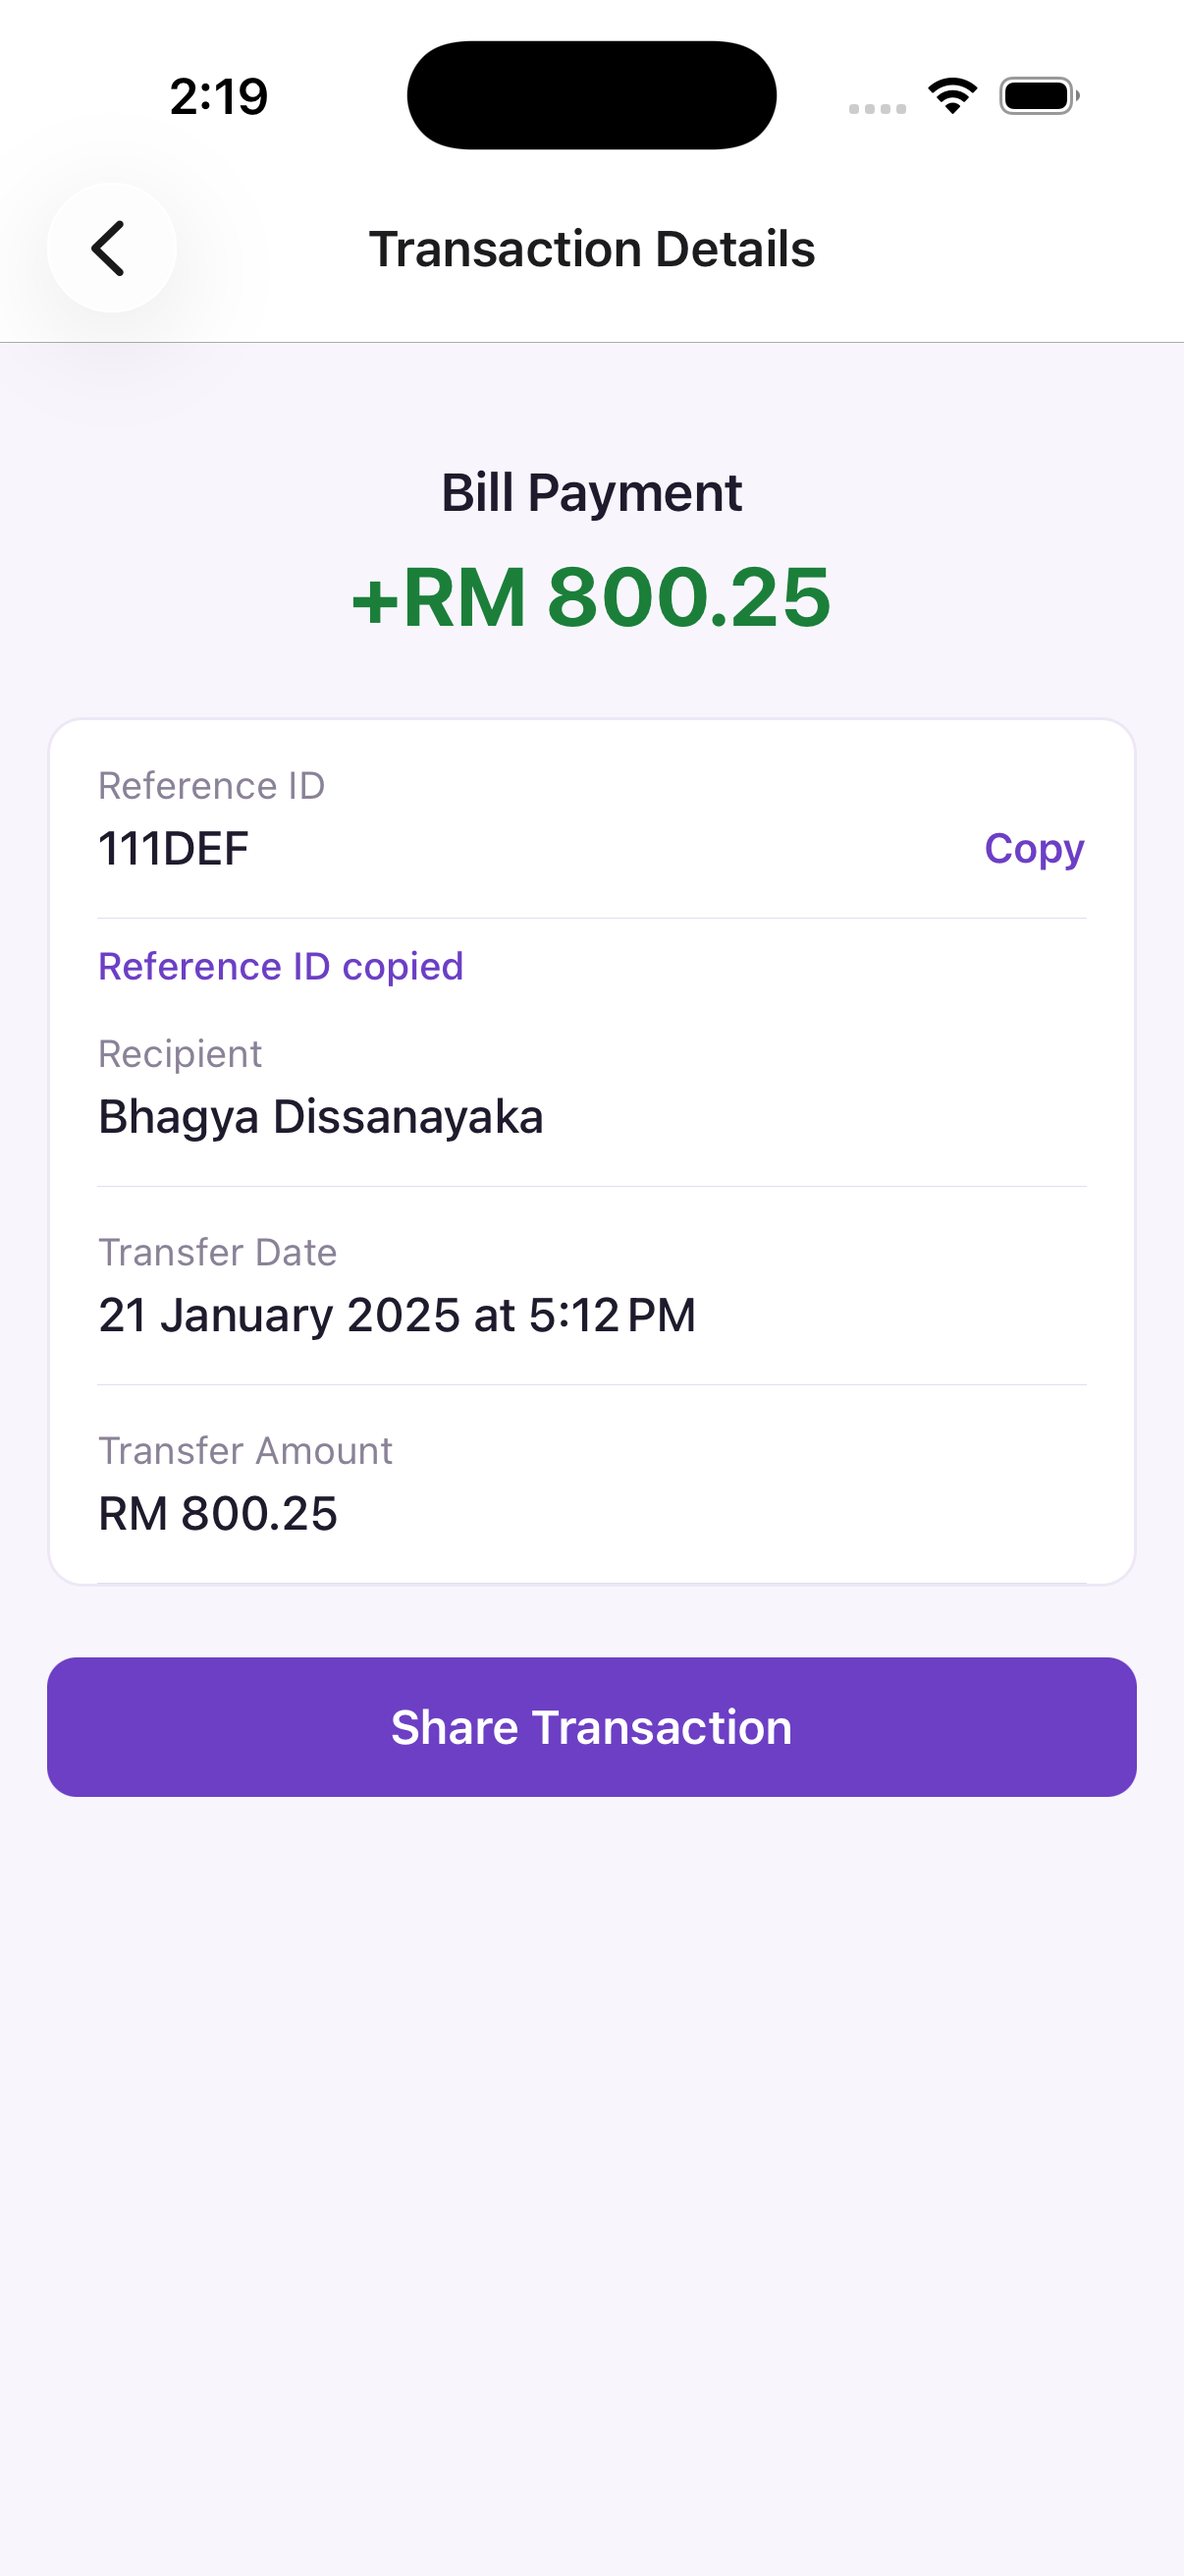
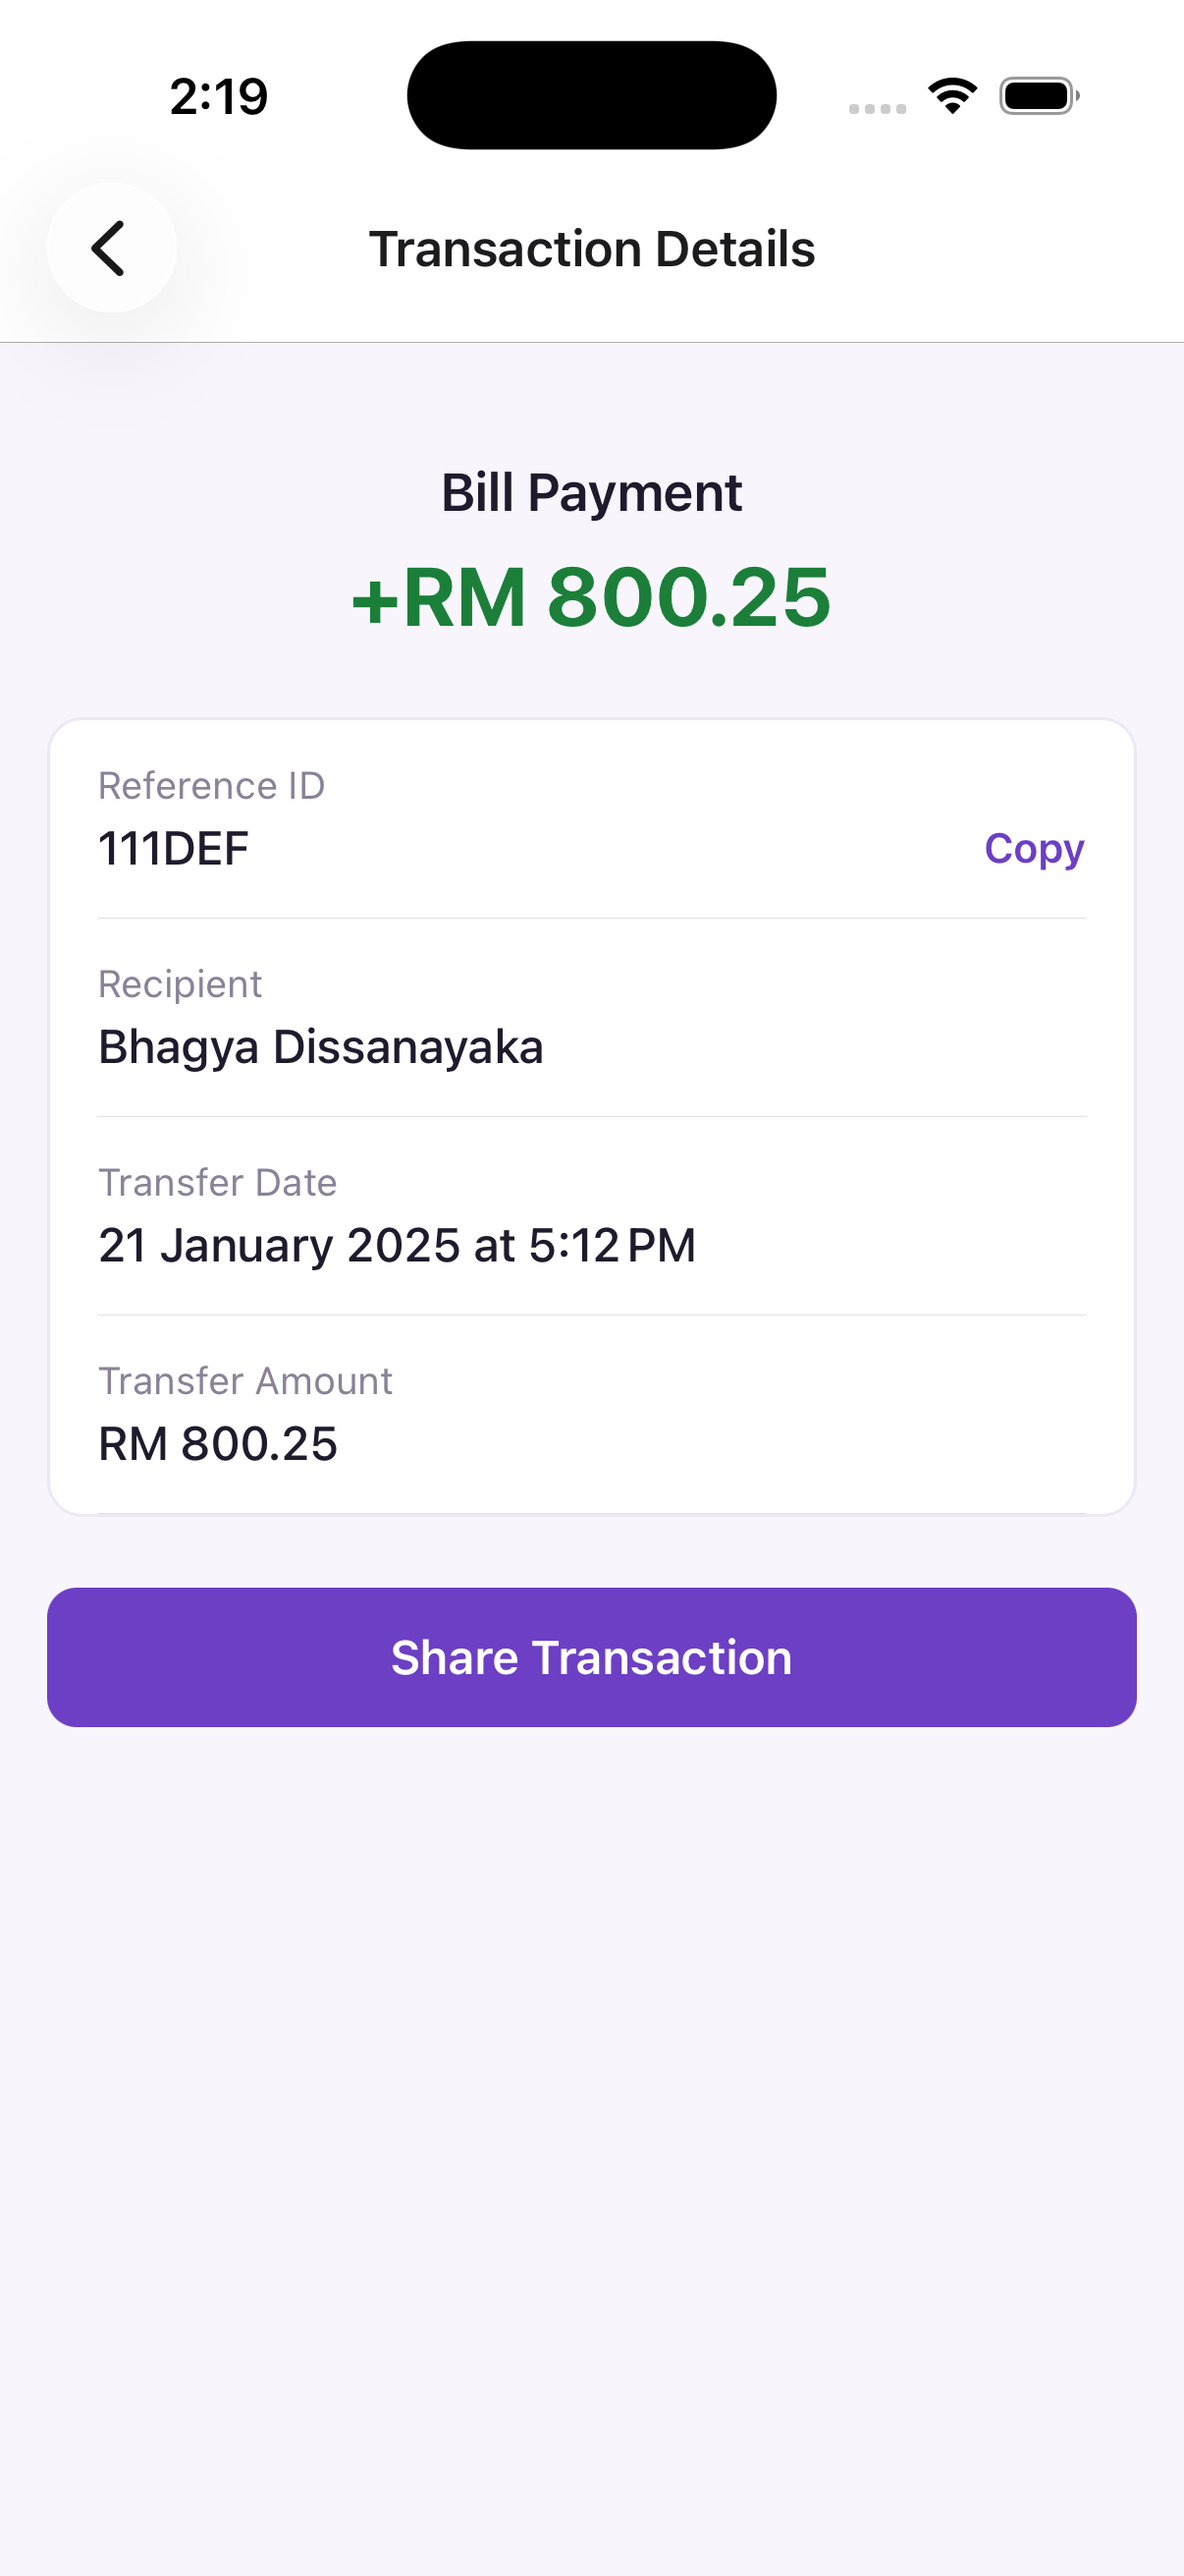
added missing SS and updated readme

Changed region(s): [[0.0307, 0.3707, 0.9818, 0.7105]]

diff --git a/README.md b/README.md
@@ -87,16 +87,17 @@ The repository includes screenshots of the key user flows under `src/assets`.
 
 <p align="center">
   <img src="src/assets/Welcome.png" width="220" alt="Welcome Screen" />
-  <img src="src/assets/TransactionList.png" width="220" alt="Transaction List Screen" />
+  <img src="src/assets/TransactionDetailList.png" width="220" alt="Transaction List Screen" />
   <img src="src/assets/TransactionDetails.png" width="220" alt="Transaction Details Screen" />
 </p>
 
 <p align="center">
+  <img src="src/assets/TransactionDetailsCopy.png" width="220" alt="Copy Reference ID Feedback" />
   <img src="src/assets/Search.png" width="220" alt="Transaction Search" />
   <img src="src/assets/Share.png" width="220" alt="Native Share Sheet" />
 </p>
 
-The screenshots demonstrate the welcome flow, grouped transaction history, search experience, transaction details, and native sharing functionality.
+The screenshots demonstrate the welcome flow, grouped transaction history, transaction details, copy-reference feedback, search, and native sharing functionality.
 
 ## Project Structure
 
@@ -108,6 +109,13 @@ src/
 
 │   └── transactionApi.ts
 
+├── assets/
+│   ├── Search.png
+│   ├── Share.png
+│   ├── TransactionDetailList.png
+│   ├── TransactionDetails.png
+│   ├── TransactionDetailsCopy.png
+│   └── Welcome.png
 ├── components/
 
 │   ├── DetailRow.tsx
